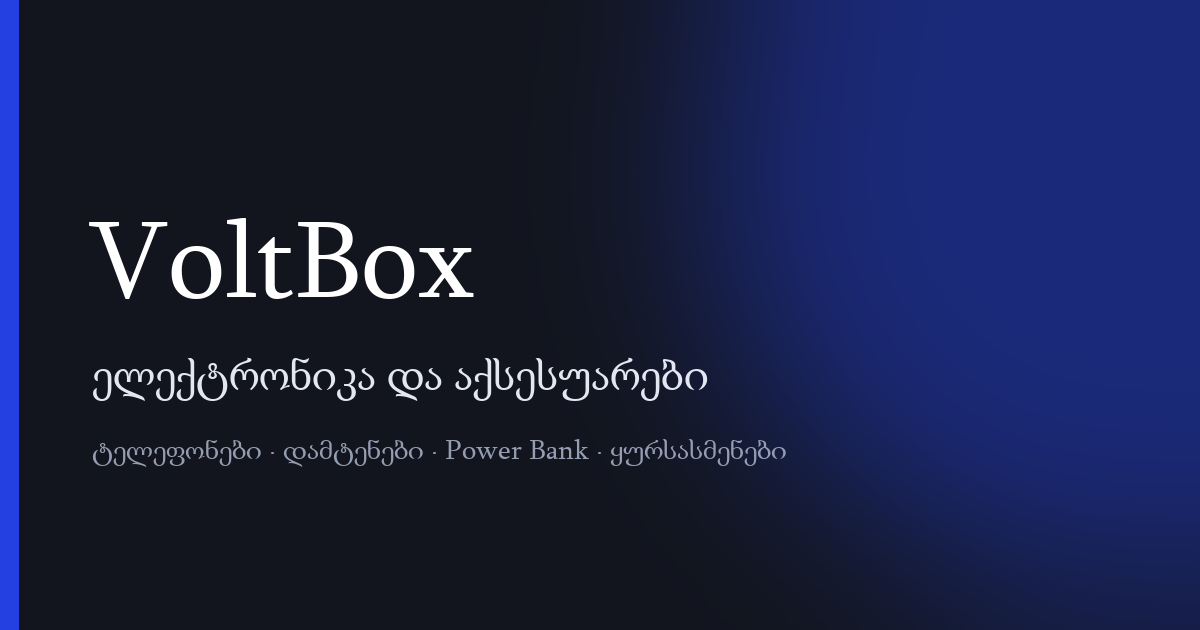
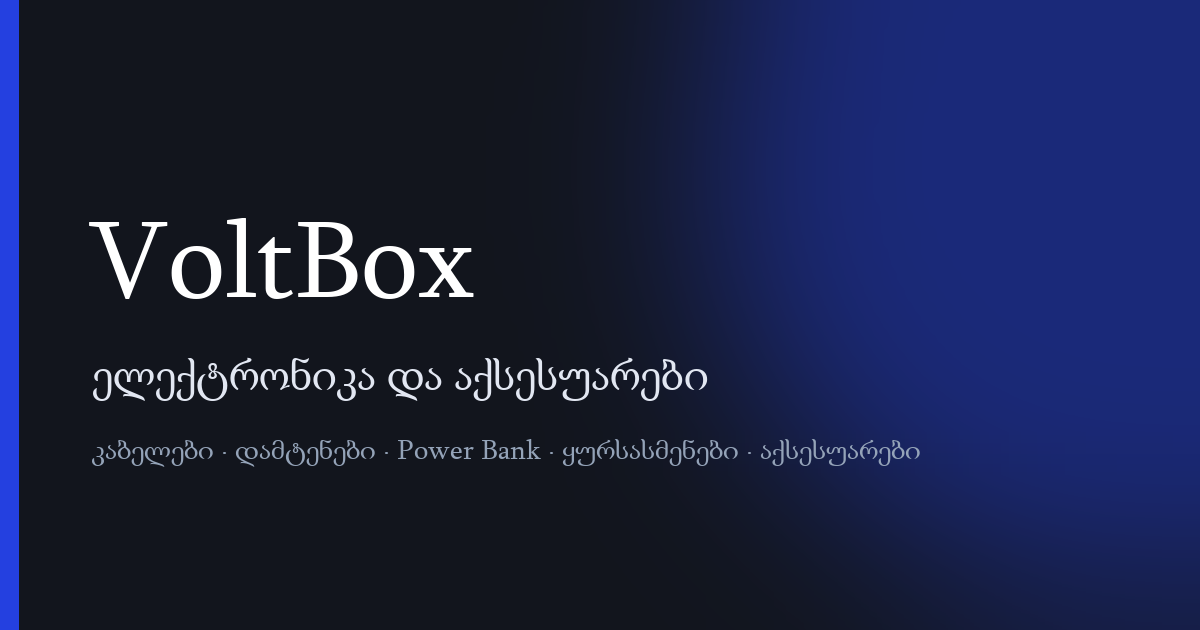
fix(storefront): the hero follows the categories that exist; phones off the copy
The owner deleted the Phones category, and the home page's main button -
"ტელეფონების ნახვა", a hardcoded /category/phones - opened "category not
found". The second button was hardcoded to headphones, which can be deleted the
same way. They are now the first two top-level categories from GET
/categories, in the position order the owner already sets in the admin: a
deleted category is not in the list, and the next one moves up. No category
left, no button. Deriving them was chosen over a fixed page because the shop
has no page that lists every product - /search is empty without a query and
/category needs a slug - so there was no route that "always exists" to send
them to. Those were the only hardcoded category slugs in the storefront; every
other category link is built from the API list.

Phones are gone from every place that listed them as a product line: the one
sentence in constants behind the hero subtitle, the footer blurb and the meta
description fallback, and its two copies in index.html. The least obvious one
was og-image.png, the picture a shared link shows: it had the list drawn into
it. No generator was ever committed, so the line was redrawn in place - the
original was fitted first (Sylfaen 28px, #94a3b8, at 92,438 reproduces it to
within ~3% of the blank background's difference) and the text erased by
interpolating the gradient above and below it. The singular "ტელეფონი" - the
contact number in forms and info pages - is untouched. The mock API's
[…]

Changed region(s): [[0.0617, 0.6937, 0.7708, 0.754]]

diff --git a/frontend/src/pages/HomeHero.test.jsx b/frontend/src/pages/HomeHero.test.jsx
@@ -1,0 +1,115 @@
+/**
+ * The hero's buttons lead to a category that exists, whichever the owner has
+ * deleted.
+ *
+ * They used to be `/category/phones` and `/category/headphones`, written into
+ * Home.jsx. The owner deleted Phones in the admin, and the home page's main
+ * button opened "category not found". Each test follows the buttons through a
+ * real router into the real category page, so a link to a category the API no
+ * longer returns shows up as that page's not-found state.
+ *
+ * Notes: useCategories keeps its first answer for the whole module, so each
+ * test loads the modules afresh to give it a different list.
+ */
+
+import { afterEach, describe, expect, it, vi } from 'vitest';
+import { act, render, screen, within } from '@testing-library/react';
+import userEvent from '@testing-library/user-event';
+import { createMemoryRouter, RouterProvider } from 'react-router';
+
+// A product card has an add-to-cart button; the cart itself is not what these check
+vi.mock('../hooks/useCart.js', () => ({ useCart: () => ({ addItem: () => {}, quantities: {} }) }));
+vi.mock('../hooks/useToast.js', () => ({ useToast: () => ({ success: () => {} }) }));
+
+const category = (slug, name, position, parentId = null) => ({
+  id: `c-${slug}`,
+  slug,
+  name,
+  icon: 'Cable',
+  parentId,
+  position,
+  productsCount: 3,
+  filters: [],
+});
+
+/** What GET /categories returns once the owner has deleted Phones. */
+const AFTER_PHONES_DELETED = [
+  category('headphones', 'ყურსასმენები', 1),
+  category('earbuds', 'უსადენო', 2, 'c-headphones'),
+  category('cables', 'კაბელები', 3),
+  category('chargers', 'დამტენები', 4),
+];
+
+afterEach(() => vi.restoreAllMocks());
+
+async function mountHome(categories) {
+  vi.resetModules();
+  const api = await import('../services/api.js');
+  const { default: Home } = await import('./Home.jsx');
+  const { default: Category } = await import('./Category.jsx');
+
+  vi.spyOn(api, 'getCategories').mockResolvedValue(categories);
+  vi.spyOn(api, 'getHomeSections').mockResolvedValue({
+    newArrivals: [],
+    discounted: [],
+    featured: [],
+    latest: [],
+    popularCategories: categories,
+  });
+  vi.spyOn(api, 'getDeliveryRules').mockResolvedValue({ cities: [], freeFrom: 50, currency: 'GEL' });
+  vi.spyOn(api, 'getProducts').mockResolvedValue({
+    items: [],
+    total: 0,
+    facets: { values: {}, price: { min: 0, max: 0 } },
+  });
+
+  const router = createMemoryRouter(
+    [
+      { path: '/', element: <Home /> },
+      { path: '/category/:slug', element: <Category /> },
+    ],
+    { initialEntries: ['/'] },
+  );
+  render(<RouterProvider router={router} />);
+  return { router, api };
+}
+
+/** The links inside the hero - the section with the page's only h1. */
+async function heroLinks() {
+  const heading = await screen.findByRole('heading', { level: 1 });
+  return within(heading.closest('section')).queryAllByRole('link');
+}
+
+describe('the home hero buttons', () => {
+  it('each opens a category that exists after Phones is deleted', async () => {
+    const user = userEvent.setup();
+    const { router } = await mountHome(AFTER_PHONES_DELETED);
+
+    // The owner's first two top-level categories, in the owner's order; the
+    // subcategory between them is not one of them
+    await screen.findAllByRole('link', { name: 'კაბელები', hidden: true });
+    const links = await heroLinks();
+    expect(links.map((link) => link.getAttribute('href'))).toEqual([
+      '/category/headphones',
+      '/category/cables',
+    ]);
+
+    for (const name of ['ყურსასმენები', 'კაბელები']) {
+      await user.click((await heroLinks()).find((link) => link.textContent === name));
+      expect(
+        await screen.findByRole('heading', { level: 1, name }),
+      ).toBeInTheDocument();
+      expect(screen.queryByText('კატეგორია ვერ მოიძებნა')).toBeNull();
+      await act(() => router.navigate('/'));
+    }
+  });
+
+  it('shows no button, rather than a broken one, when no category is left', async () => {
+    const { api } = await mountHome([]);
+
+    await screen.findByRole('heading', { level: 1 });
+    // Checked after the list has arrived, not while it is still loading
+    await act(() => api.getCategories.mock.results[0].value);
+    expect(await heroLinks()).toEqual([]);
+  });
+});

diff --git a/frontend/src/storefrontCopy.test.js b/frontend/src/storefrontCopy.test.js
@@ -1,0 +1,70 @@
+/**
+ * No storefront text offers phones as something the shop sells.
+ *
+ * The owner deleted the Phones category: the shop does not sell phones for
+ * now. The hero, the footer and the meta description still listed "ტელეფონები"
+ * first among the product lines, all from one sentence in constants, with two
+ * copies in index.html for the crawlers that do not run JavaScript.
+ *
+ * The plural is what names a product line - "ტელეფონები", "ტელეფონების" - and
+ * "სმარტფონი" names the product. The singular stays: "ტელეფონი", "ტელეფონით",
+ * "ტელეფონის ნომერი" are the contact number in the forms and on the info pages.
+ *
+ * Notes: reads the source, so a sentence added later is caught too. Skipped:
+ * the admin panel, which names whatever categories exist; `data/`, the
+ * catalogue the mock API serves in development - a fake backend's records, not
+ * the shop's copy; and tests. og-image.png carries the same list drawn as
+ * pixels, which this cannot read - it was checked by eye.
+ */
+
+import { readFileSync, readdirSync, statSync } from 'node:fs';
+import { join, relative } from 'node:path';
+
+import { describe, expect, it } from 'vitest';
+
+import { SITE_DESCRIPTION } from './constants/index.js';
+
+// `process.cwd()` rather than import.meta.url: under jsdom that is not a
+// file: URL. Vitest runs from the frontend root.
+const ROOT = process.cwd();
+const SRC = join(ROOT, 'src');
+
+const SKIP = ['admin', 'data'];
+
+const PHONES_AS_PRODUCT_LINE = /ტელეფონებ|სმარტფონ/;
+
+function sourceFiles(dir) {
+  return readdirSync(dir).flatMap((entry) => {
+    const full = join(dir, entry);
+    if (statSync(full).isDirectory()) return SKIP.includes(entry) ? [] : sourceFiles(full);
+    return /\.jsx?$/.test(entry) && !entry.includes('.test.') ? [full] : [];
+  });
+}
+
+const files = [...sourceFiles(SRC), join(ROOT, 'index.html')];
+
+describe('what the storefront says it sells', () => {
+  it('finds the files to check', () => {
+    // Guards the test: a moved directory would otherwise make it pass silently.
+    expect(files.length).toBeGreaterThan(50);
+    expect(files.some((f) => f.endsWith('Home.jsx'))).toBe(true);
+    expect(files.some((f) => f.endsWith('Footer.jsx'))).toBe(true);
+  });
+
+  it('lists no phones among the product lines', () => {
+    const found = files.flatMap((file) =>
+      readFileSync(file, 'utf8')
+        .split('\n')
+        .map((line, i) => [line, i])
+        .filter(([line]) => PHONES_AS_PRODUCT_LINE.test(line))
+        .map(([line, i]) => `${relative(ROOT, file)}:${i + 1}: ${line.trim()}`),
+    );
+    expect(found).toEqual([]);
+  });
+
+  it('names what the shop does sell', () => {
+    for (const line of ['კაბელები', 'დამტენები', 'Power Bank', 'ყურსასმენები', 'აქსესუარები']) {
+      expect(SITE_DESCRIPTION).toContain(line);
+    }
+  });
+});

diff --git a/frontend/src/pages/Home.jsx b/frontend/src/pages/Home.jsx
@@ -52,7 +52,7 @@ export default function Home() {
             className="rounded-card border border-line bg-surface"
           />
         </aside>
-        <Hero />
+        <Hero categories={categories || []} />
       </div>
       <Benefits />
 
@@ -90,7 +90,16 @@ export default function Home() {
   );
 }
 
-function Hero() {
+/**
+ * The hero's two buttons are the first two top-level categories, in the order
+ * the owner sets in the admin. They used to be the slugs `phones` and
+ * `headphones` written into this file: the owner deleted Phones, and the main
+ * button on the home page led to "category not found". Taken from the list the
+ * API returns, a deleted category simply is not there, and the next one moves
+ * up. No category, no button; while the list loads, the row keeps its height.
+ */
+function Hero({ categories }) {
+  const [first, second] = rootCategories(categories);
   return (
     <section className="relative overflow-hidden rounded-card border border-line bg-surface px-6 py-12 sm:px-10 sm:py-16 lg:px-14 lg:py-20">
       <div aria-hidden="true" className="bg-tech-grid absolute inset-0" />
@@ -121,14 +130,18 @@ function Hero() {
           {SITE_DESCRIPTION} ორიგინალი პროდუქცია ოფიციალური გარანტიით და მიწოდებით მთელ საქართველოში.
         </p>
 
-        <div className="mt-7 flex flex-wrap gap-3">
-          <Button to="/category/phones" variant="primary" size="lg" className="shadow-glow">
-            ტელეფონების ნახვა
-            <ArrowRight className="h-4 w-4" aria-hidden="true" />
-          </Button>
-          <Button to="/category/headphones" size="lg" variant="outline">
-            ყურსასმენები
-          </Button>
+        <div className="mt-7 flex min-h-12 flex-wrap gap-3">
+          {first && (
+            <Button to={`/category/${first.slug}`} variant="primary" size="lg" className="shadow-glow">
+              {first.name}
+              <ArrowRight className="h-4 w-4" aria-hidden="true" />
+            </Button>
+          )}
+          {second && (
+            <Button to={`/category/${second.slug}`} size="lg" variant="outline">
+              {second.name}
+            </Button>
+          )}
         </div>
       </div>
     </section>

diff --git a/frontend/index.html b/frontend/index.html
@@ -12,7 +12,7 @@
     <meta name="theme-color" content="#2440e0" />
     <meta
       name="description"
-      content="VoltBox — ტელეფონები, კაბელები, დამტენები, Power Bank-ები და ყურსასმენები ერთ სივრცეში."
+      content="VoltBox — კაბელები, დამტენები, Power Bank-ები, ყურსასმენები და აქსესუარები ერთ სივრცეში."
     />
     <link rel="icon" type="image/svg+xml" href="/favicon.svg" />
     <!--
@@ -51,7 +51,7 @@
     <meta property="og:title" content="VoltBox — ელექტრონიკის აქსესუარები" />
     <meta
       property="og:description"
-      content="ტელეფონები, კაბელები, დამტენები, Power Bank-ები და ყურსასმენები — ერთ სივრცეში."
+      content="კაბელები, დამტენები, Power Bank-ები, ყურსასმენები და აქსესუარები — ერთ სივრცეში."
     />
     <!-- PNG, not the site's SVG favicon: no chat app renders SVG in a preview. -->
     <meta property="og:image" content="__SITE_URL__/og-image.png" />

diff --git a/frontend/src/constants/index.js b/frontend/src/constants/index.js
@@ -11,7 +11,7 @@
 export const SITE_NAME = 'VoltBox';
 export const SITE_TAGLINE = 'ელექტრონიკა და აქსესუარები';
 export const SITE_DESCRIPTION =
-  'ტელეფონები, კაბელები, დამტენები, Power Bank-ები და ყურსასმენები — ერთ სივრცეში.';
+  'კაბელები, დამტენები, Power Bank-ები, ყურსასმენები და აქსესუარები — ერთ სივრცეში.';
 
 export const CONTACT = {
   phone: '+995 322 00 11 22',
